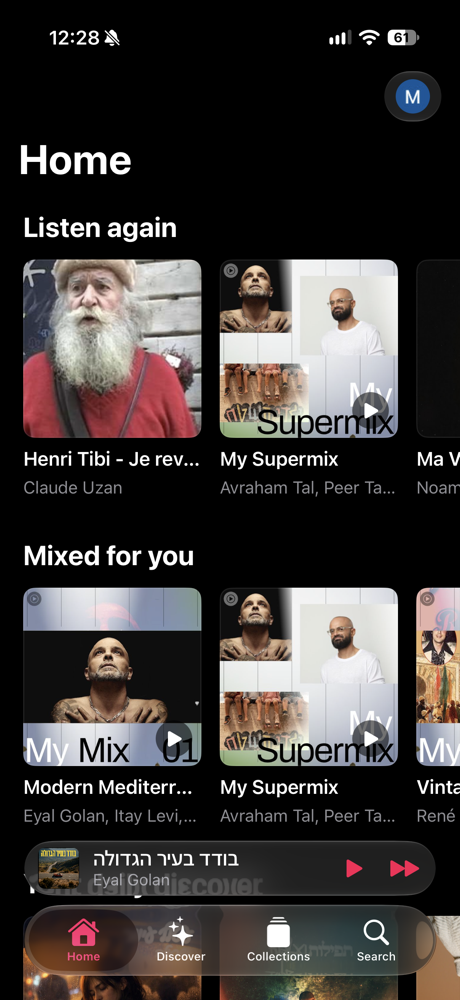
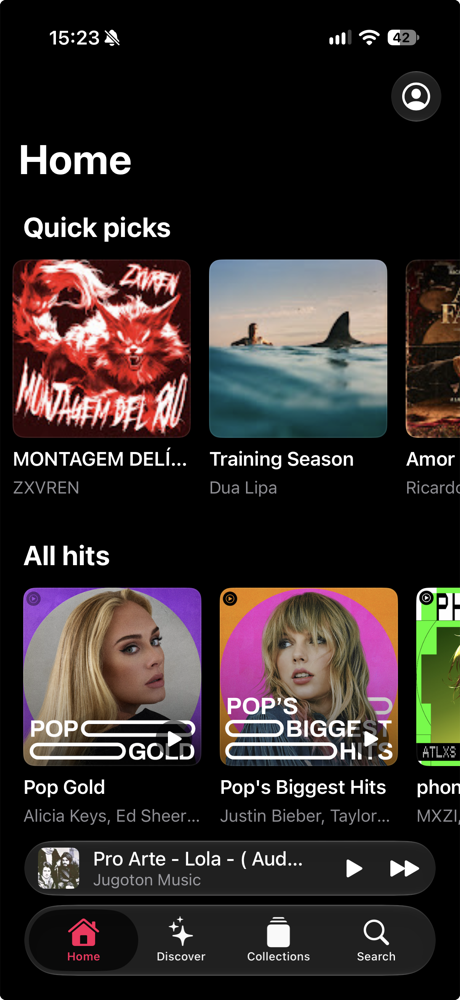
fix: sign-out clears Now Playing and the saved session; mirror log to os_log; new Home screenshot

diff --git a/Sources/Playback/WebPlayer.swift b/Sources/Playback/WebPlayer.swift
@@ -114,8 +114,12 @@ final class WebPlayer: NSObject {
     }
 
     /// Rebuilds the web view (e.g. after sign-in so the page picks up the session).
-    func reload() {
+    ///
+    /// Also drops everything that outlives the old page: the system Now Playing entry (lock
+    /// screen / Control Center), its media playback, and optionally the saved session (sign-out).
+    func reload(clearingSession: Bool = false) {
         let old = self.webView
+        Task { await old.pauseAllMediaPlayback() }
         old.stopLoading()
         old.configuration.userContentController.removeScriptMessageHandler(forName: PlayerScripts.bridgeName)
         old.load(URLRequest(url: URL(string: "about:blank")!))
@@ -125,9 +129,16 @@ final class WebPlayer: NSObject {
         self.webView = fresh
         self.generation += 1
         self.state = PlaybackState()
+        self.isShowingRestoredSession = false
         self.lastBeat = nil
+        self.lastEvent = ""
+        self.nowPlaying.clear()
+        MPNowPlayingInfoCenter.default().playbackState = .stopped
+        if clearingSession {
+            UserDefaults.standard.removeObject(forKey: Self.savedSessionKey)
+        }
         fresh.load(URLRequest(url: Self.homeURL))
-        self.log.log("web", "reloaded")
+        self.log.log("web", "reloaded (clearingSession=\(clearingSession))")
     }
 
     // MARK: - Commands (forwarded to the page)

diff --git a/Sources/Debug/SpikeLog.swift b/Sources/Debug/SpikeLog.swift
@@ -1,4 +1,5 @@
 import Foundation
+import os
 
 /// Timestamped log that is mirrored to `Documents/spike-log.txt` and flushed on every line,
 /// so it survives the app being killed in the background.
@@ -27,6 +28,9 @@ final class SpikeLog: ObservableObject {
     }
 
     func log(_ category: String, _ message: String) {
+        // Mirrored to the unified log so lines show up in Xcode's console (filter by subsystem
+        // `dev.emoona.kaset`, or search `[queue]`, `[inspect]`) as well as in the in-app log.
+        Logger(subsystem: "dev.emoona.kaset", category: category).notice("[\(category)] \(message, privacy: .public)")
         let line = "\(self.formatter.string(from: Date())) [\(category)] \(message)"
         self.lines.append(line)
         if self.lines.count > 400 {

diff --git a/Sources/App/AppEnvironment.swift b/Sources/App/AppEnvironment.swift
@@ -83,6 +83,6 @@ final class AppEnvironment {
         UserDefaults.standard.removeObject(forKey: AccountSwitcher.brandIdKey)
         self.accountAvatarURL = nil
         self.client.resetSessionState()
-        self.player.reload()
+        self.player.reload(clearingSession: true)
     }
 }

diff --git a/README.md b/README.md
@@ -34,7 +34,7 @@ carried over and the player was rebuilt for iOS.
     <td align="center"><img src="docs/screenshots/now-playing.png" alt="Now Playing" width="260"></td>
   </tr>
   <tr>
-    <td align="center"><sub><b>Home</b><br>Shelves, tab bar and mini player</sub></td>
+    <td align="center"><sub><b>Home</b><br>Shelves, tab bar and mini player (guest mode)</sub></td>
     <td align="center"><sub><b>Discover</b><br>Explore, Charts, Moods, New releases</sub></td>
     <td align="center"><sub><b>Now Playing</b><br>Artwork-tinted, Apple Music layout</sub></td>
   </tr>
